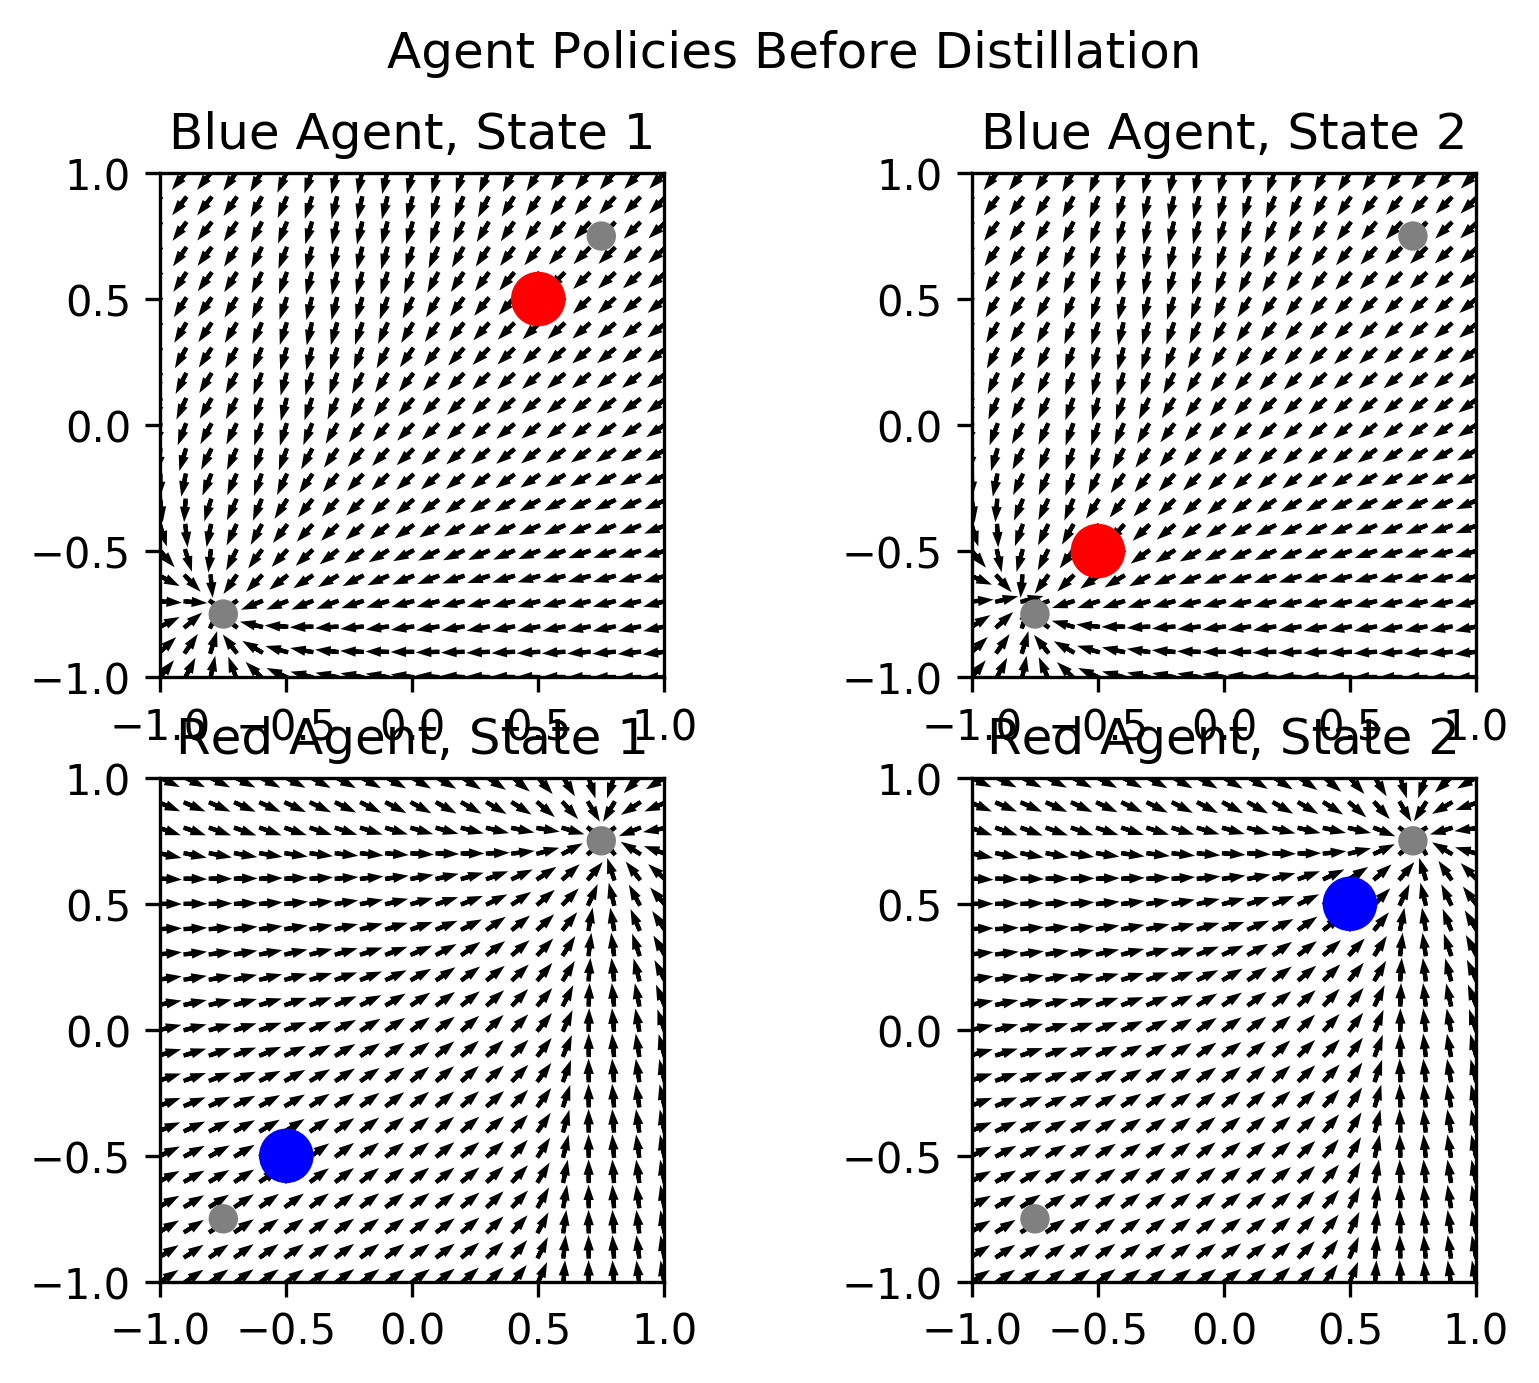
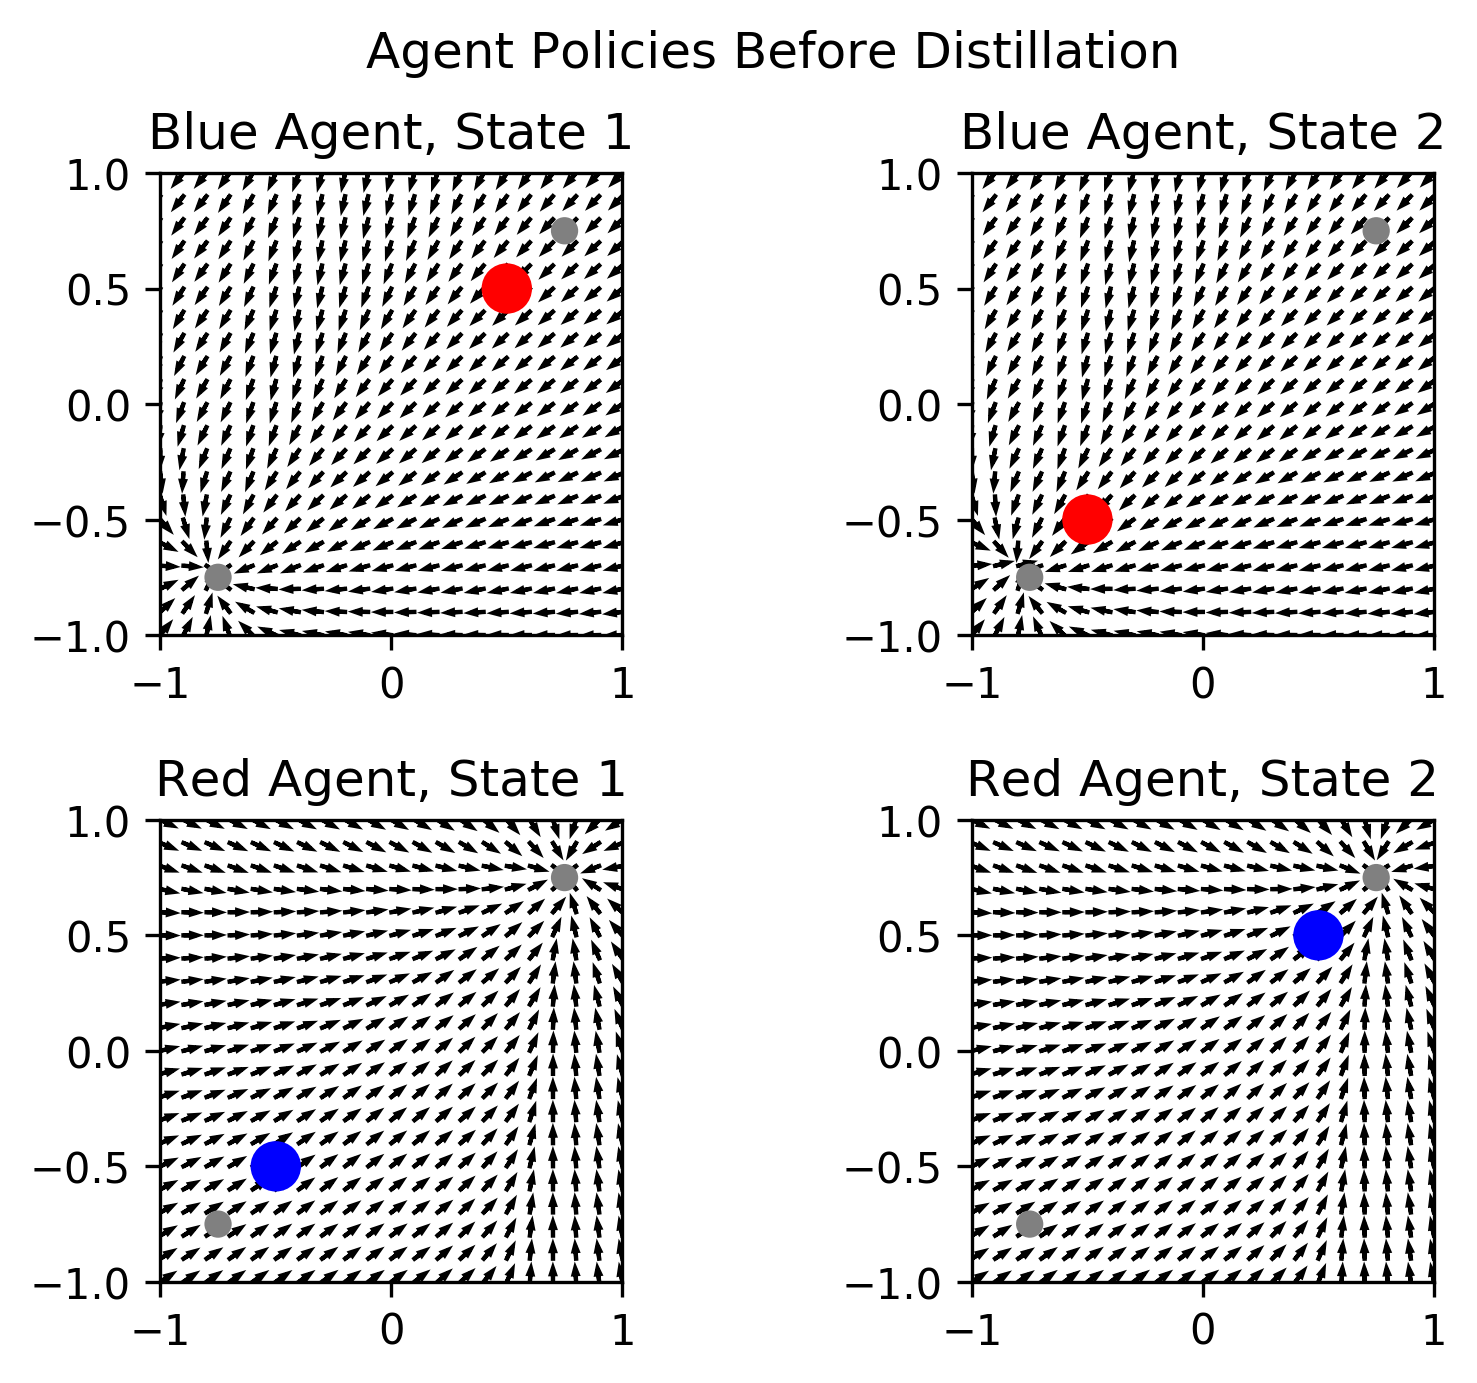
Data added, email sent

Changed region(s): [[0.3737, 0.0, 0.9966, 0.9949], [0.0311, 0.0311, 0.4672, 0.9949], [0.5606, 0.8084, 0.5917, 0.8395]]

diff --git a/utils/heatmap.py b/utils/heatmap.py
@@ -42,6 +42,7 @@ def add_arrows(axes, delta_dict, q_vals = None, rescale=False):
 
 def heatmap(maddpg, title="Agent Policies", save=False):
     fig, axes = plt.subplots(2, 2)
+    plt.subplots_adjust(left=None, bottom=None, right=None, top=None, wspace=None, hspace=0.4)
 
     num_arrows = 21
     other_poses = [[[0.5, 0.5], [-0.5, -0.5]], [[-0.5, -0.5], [0.5, 0.5]]]
@@ -96,6 +97,7 @@ def heatmap(maddpg, title="Agent Policies", save=False):
 
 def distilled_heatmap(maddpg, save=False):
     fig, axes = plt.subplots(2, 2)
+    plt.subplots_adjust(left=None, bottom=None, right=None, top=None, wspace=None, hspace=0.4)
 
     num_arrows = 21
     other_poses = [[[0.5, 0.5], [-0.5, -0.5]], [[-0.5, -0.5], [0.5, 0.5]]]
